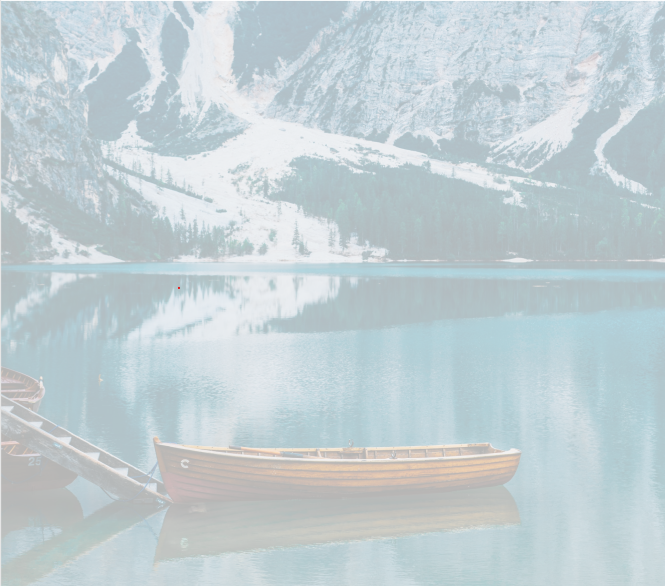
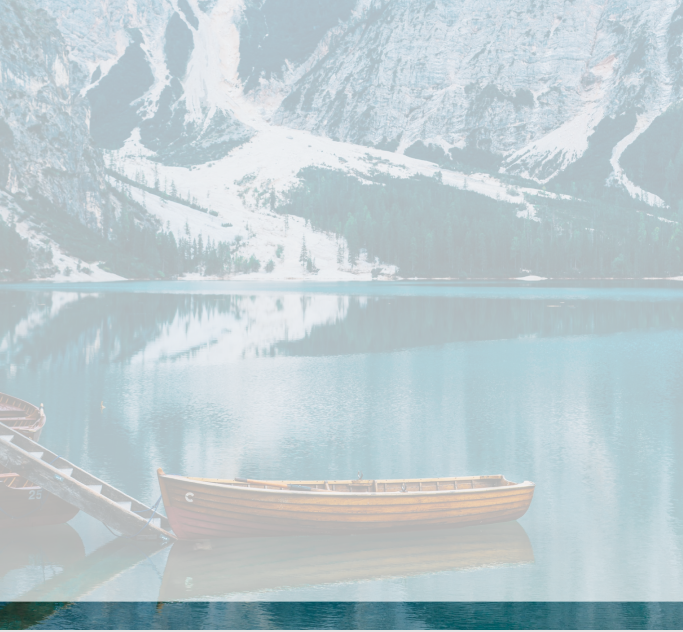
The last day of work with the main page

diff --git a/index.html b/index.html
@@ -14,7 +14,7 @@
         <div class="header_wrapper">
             <div class="header_logo">
                <a href="/" class="header_logo-link">
-               <img src="img/svg/logo.svg" alt="Travel Portal " class="header_logo-pic"></a>
+               <img src="img/svg/logo.svg" alt="Travel Portal" class="header_logo-pic"></a>
             </div>
         
             <nav class="header_nav">
@@ -61,6 +61,7 @@
         </section>
         <!-- Intro end -->
         
+        
         <!-- Steps start -->
         <section class="steps">
           <div class="steps_wrap">
@@ -95,6 +96,7 @@
        </section>
         <!-- Steps end -->
         
+        
         <!-- Destinations start -->
         <section class="destinations">
             <div class="wrapper-full">
@@ -108,6 +110,7 @@
                     <input type="radio" name="radio" id="r3">
                     
                     <div class="slide s1"><img src="img/left-pic.png" alt="Ocean"></div>
+                    
                     <div class="slide s2"><img src="img/main_pic.png" alt="Japan"></div>
                     <div class="slide s2"><img src="img/right_pic.png" alt="England"></div>
                 
@@ -119,7 +122,7 @@
                     <label for="r3" class="bar"></label>
                 </div>
               </div>
-                <p> <button class="find_more-button">&rarr;  Find More</button></p>    
+                <p> <button class="find_more-button"><span class="arrow">&rarr;</span>  Find More</button></p>    
             </div>
        </div>
         </section>
@@ -194,12 +197,45 @@
                     </div>
                 </div>
                 
+               
+                <p> <button class="see_more-button"><span class="arrow">&rarr;</span>  See More</button></p>    
+                
             </div>
             
+            
+         <!-- Footer start -->    
+        <footer class="footer">
+            <div class="wrapper">
+                <div class="footer_wrapper">
+                   <div class="footer_items">
+                    <div class="footer_rights">All Rights Reserved © Travel Portal
+                    </div>   
+                </div>
+                     <nav class="header_nav">
+               <ul class="header_list">
+                 <li class="footer_item">
+                    <a href="#!" class="footer_link"><img src="/img/svg/icon_instagram.svg" alt="icon_instagram" class="footer_pic"></a>
+                 </li>
+                 <li class="footer_item">
+                    <a href="#!" class="footer_link"><img src="/img/svg/icon_video.svg" alt="icon_video" class="footer_pic"></a>
+                 </li>
+                 <li class="footer_item">
+                    <a href="#!" class="footer_link"><img src="/img/svg/icon_twitter.svg" alt="icon_twitter" class="footer_pic"></a>
+                 </li>
+              </ul>
+           </nav>
+                     </div>
+            </div>
+        </footer>
+      <!-- Footer end -->
             </div>
         </section>
         
-        <!-- Stories end -->
+      <!-- Stories end -->
+        
+          
+       
+
         
     </main>
 </body>

diff --git a/css/style.css b/css/style.css
@@ -11,7 +11,7 @@ article, aside, canvas, details, embed,
 figure, figcaption, footer, header, hgroup,
 menu, nav, output, ruby, section, summary,
 time, mark, audio, video {
-  margin: 0;
+    margin: 0;
 	padding: 0;
 	border: 0;
 	font-size: 100%;
@@ -690,7 +690,7 @@ input[name="radio"]{
     border: 0;
 
     align-items: center;
-    padding: 10px 32px;
+    padding: 10px 32px 10px 20px;
 }
 .find_more-button:hover, .find_more-button:focus, .find_more-button:active{
     background: #164A43;
@@ -708,10 +708,14 @@ input[name="radio"]{
 
 
 /*stories styles*/
-
+.stories{
+    background: url(/img/bgf.png) no-repeat;
+    background-size: 100%;
+}
 .stories_title{
     padding: 0px 470px;
     margin-bottom: 80px;
+    margin-top: -60px;
 }
 .tours{
   padding-top: 80px;   
@@ -719,12 +723,13 @@ input[name="radio"]{
 
 .tours_tour{
     display: grid;
-    grid-template-columns: repeat(2,1fr);
+    grid-template-columns: 400px auto auto;
     align-items: center;
     padding-top: 30px;
 }
 
 .tour_title{
+    margin-top: -40px;
     margin-bottom: 24px;
     font-family: 'Aleo';
     font-style: normal;
@@ -732,6 +737,7 @@ input[name="radio"]{
     font-size: 35px;
     line-height: 42px;
     color: #0D606F;
+    margin-left: 40px;
 }
 .tour_desc{
     font-family: 'Aleo';
@@ -740,15 +746,86 @@ input[name="radio"]{
     font-size: 20px;
     line-height: 24px;
     color: #0D606F; 
+    margin-left: 40px;
 }
 .tour_more{
     font-family: 'Aleo';
     font-style: normal;
-    font-weight: 400;
-    font-size: 20px;
+    font-weight: 700;
+    font-size: 22px;
     line-height: 24px;
     color: #0D606F; 
+    margin-left: 40px;
 }
 
+.see_more-button{
+    position: relative;
+    width: 228px;
+    height: 59px;
+    left: 509px;
+    
+    margin-top: 40px;
+    font-family: 'Red Hat Text';
+    font-style: normal;
+    font-weight: 500;
+    font-size: 24px;
+    line-height: 32px;
+    color: #FFFFFF;
 
+    background: #0D606F;
+    box-shadow: 0px 0px 3px rgba(13, 96, 111, 0.08), 0px 2px 3px rgba(13, 96, 111, 0.16);
+    border-radius: 10px;
+    border: 0;
+
+    align-items: center;
+    padding: 10px 32px 10px 20px;
+    margin-bottom: 55px;
+}
+.see_more-button:hover, .see_more-button:focus, .see_more-button:active{
+    background: #164A43;
+}
+.arrow{
+    font-size: 40px;
+    font-weight: bold;
+}
 /*stories styles end*/
+.footer_rights{
+    position: absolute;
+    left: 599px;
+    font-family: 'Red Hat Text';
+    font-style: normal;
+    font-weight: 500;
+    font-size: 16px;
+    line-height: 21px;
+    color: #FFFFFF;
+}
+.footer_wrapper{
+    display: flex;
+    flex-wrap: wrap;
+    align-items: top;
+    justify-content: space-between;
+}
+.footer{
+    width: 100%; 
+}
+
+.footer_list{
+    display: flex;
+    flex-wrap: wrap;
+    
+}
+.footer_item{
+    margin-right: 20px;
+}
+.footer_item:last-child{
+    margin-right: 0;
+
+}
+
+.footer_pic{
+  margin-top: -10px;
+  padding-bottom: 10px;
+}
+.footer_link:hover,.footer_link:focus,.footer_link:active{
+    opacity: 0.75;
+}
